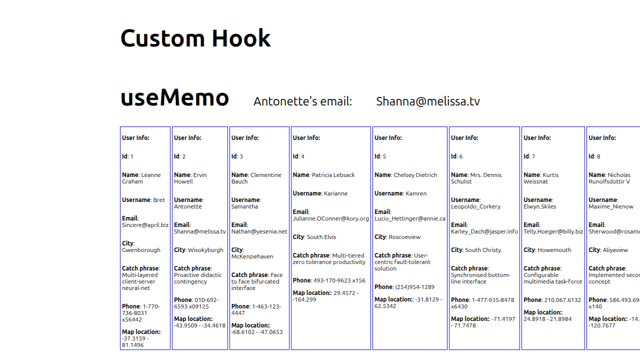
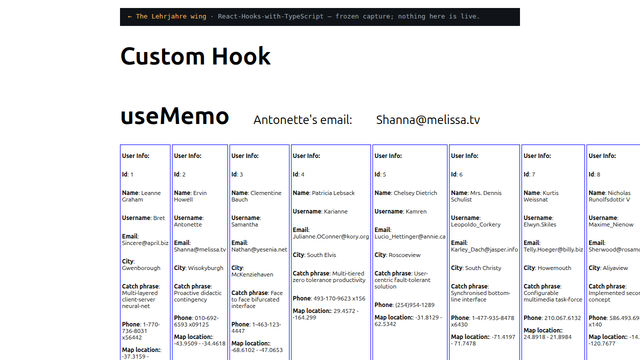
Lehrjahre hall: React-Hooks card promoted to walkable

Changed region(s): [[0.1875, 0.2444, 1.0, 1.0], [0.1875, 0.0, 0.8125, 0.1833]]

diff --git a/lehrjahre.html b/lehrjahre.html
@@ -300,19 +300,39 @@ fnamePlace.innerHTML = fname</code></pre>
     </div>
 
     <div class="lj-card">
-      <span class="lj-badge quiet">catalogue only</span>
+      <span class="lj-badge">walkable · still ticking</span>
       <h3>React-Hooks-with-TypeScript <span class="lj-date">Apr 2023</span></h3>
-      <div class="lj-shot"><img src="assets/lehrjahre/react-hooks.png" alt="Hooks cheat sheet with fetched user cards" loading="lazy"></div>
-      <p class="lj-hook">One page, six hooks — my React cheat sheet.</p>
+      <div class="lj-shot"><a href="lehrjahre/react-hooks/index.html"><img src="assets/lehrjahre/react-hooks.png" alt="Hooks cheat sheet with fetched user cards" loading="lazy"></a></div>
+      <p class="lj-hook">Six hooks pinned to one page; one of them still beats.</p>
       <div class="lj-plaque">
         <p>One page, six hooks, one component each — my React cheat sheet. It
-        fetched eight fake users from a placeholder API and filtered for the one
+        fetched ten fake users from a placeholder API and filtered for the one
         named Antonette, to prove useMemo worked. A commented-out map component
         records the ambition that got shelved: the users' coordinates are printed
         as raw numbers instead.</p>
+        <div class="specimen-label">Specimen — CustomHookComponent.tsx, the map that never opened</div>
+        <pre class="specimen"><code>{/* &lt;MapContainer style={{ height: "400px" }}&gt;
+  &lt;TileLayer url="https://{s}.tile.openstreetmap.org/{z}/{x}/{y}.png" /&gt;
+  &lt;Marker
+    position={[
+      Number(user!.address.geo.lat),
+      Number(user!.address.geo.lng),
+    ]}
+  &gt;
+    &lt;Popup&gt;A pretty CSS3 popup.&lt;/Popup&gt;
+  &lt;/Marker&gt;
+&lt;/MapContainer&gt; */}</code></pre>
+        <p>Freezing a page about hooks stops every hook on it. So the curator
+        wrote a handful of lines, allowed to change only text the page had
+        already written: the useEffect counter picks up where the capture left
+        it and goes on ticking, once a second. The reducer still adds ten and
+        takes five, the array still grows, and the context still changes its
+        mind about whose name it holds — once, which is all it ever did.
+        Nothing is rebuilt; the numbers are simply allowed to move again.</p>
         <p class="lj-charm">A comment in the custom hook: '"Payload" instead of "User[]" to make it genuinely generic :-]'</p>
       </div>
       <button class="lj-plaque-btn" type="button">Read the plaque →</button>
+      <p class="lj-door"><a class="go" href="lehrjahre/react-hooks/index.html">Enter the exhibit →</a></p>
     </div>
 
     <div class="lj-card">
